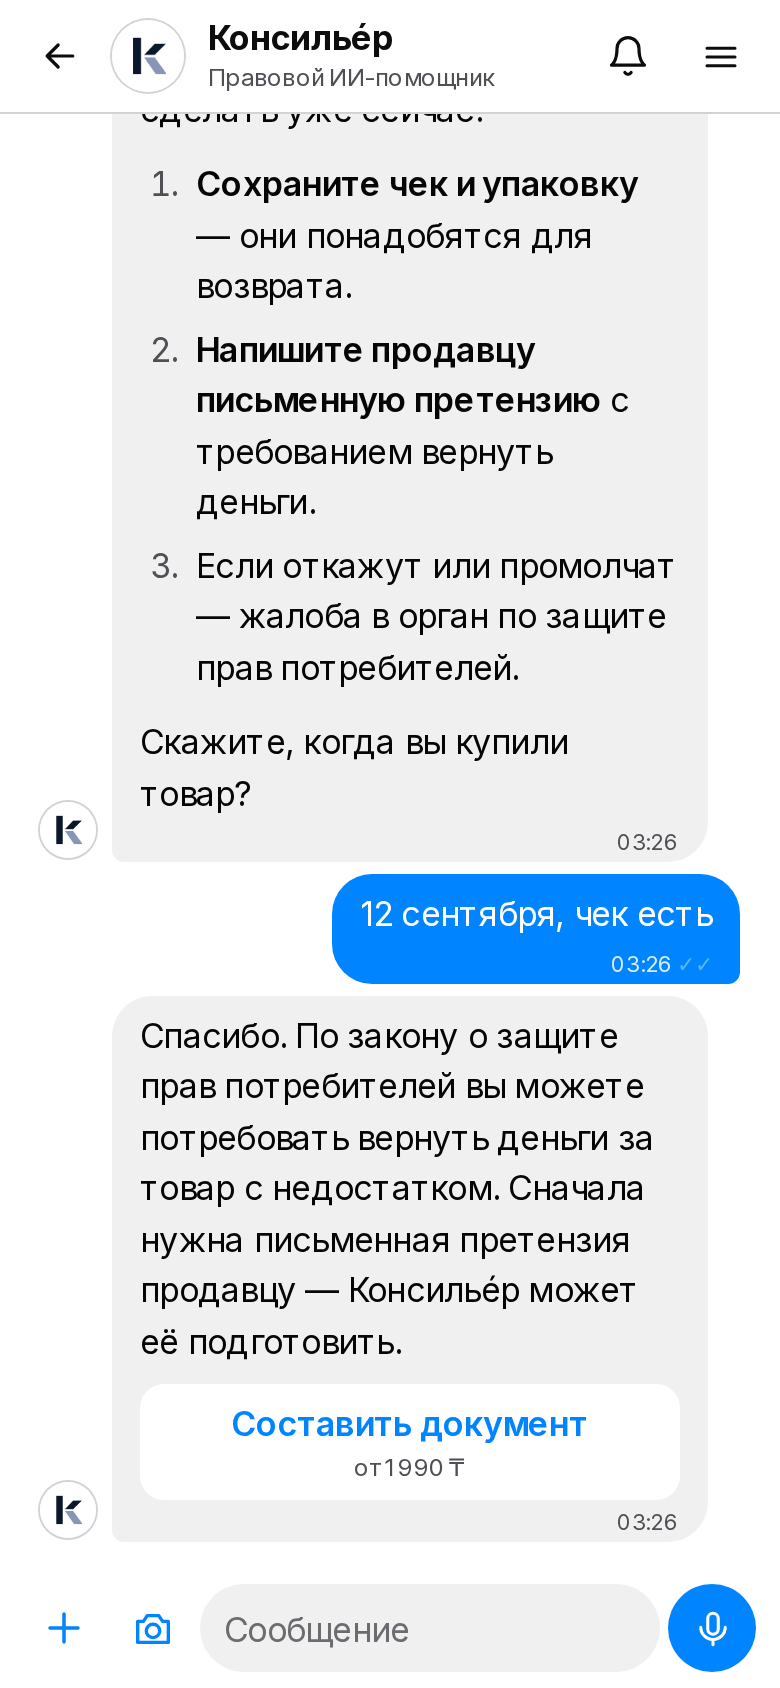
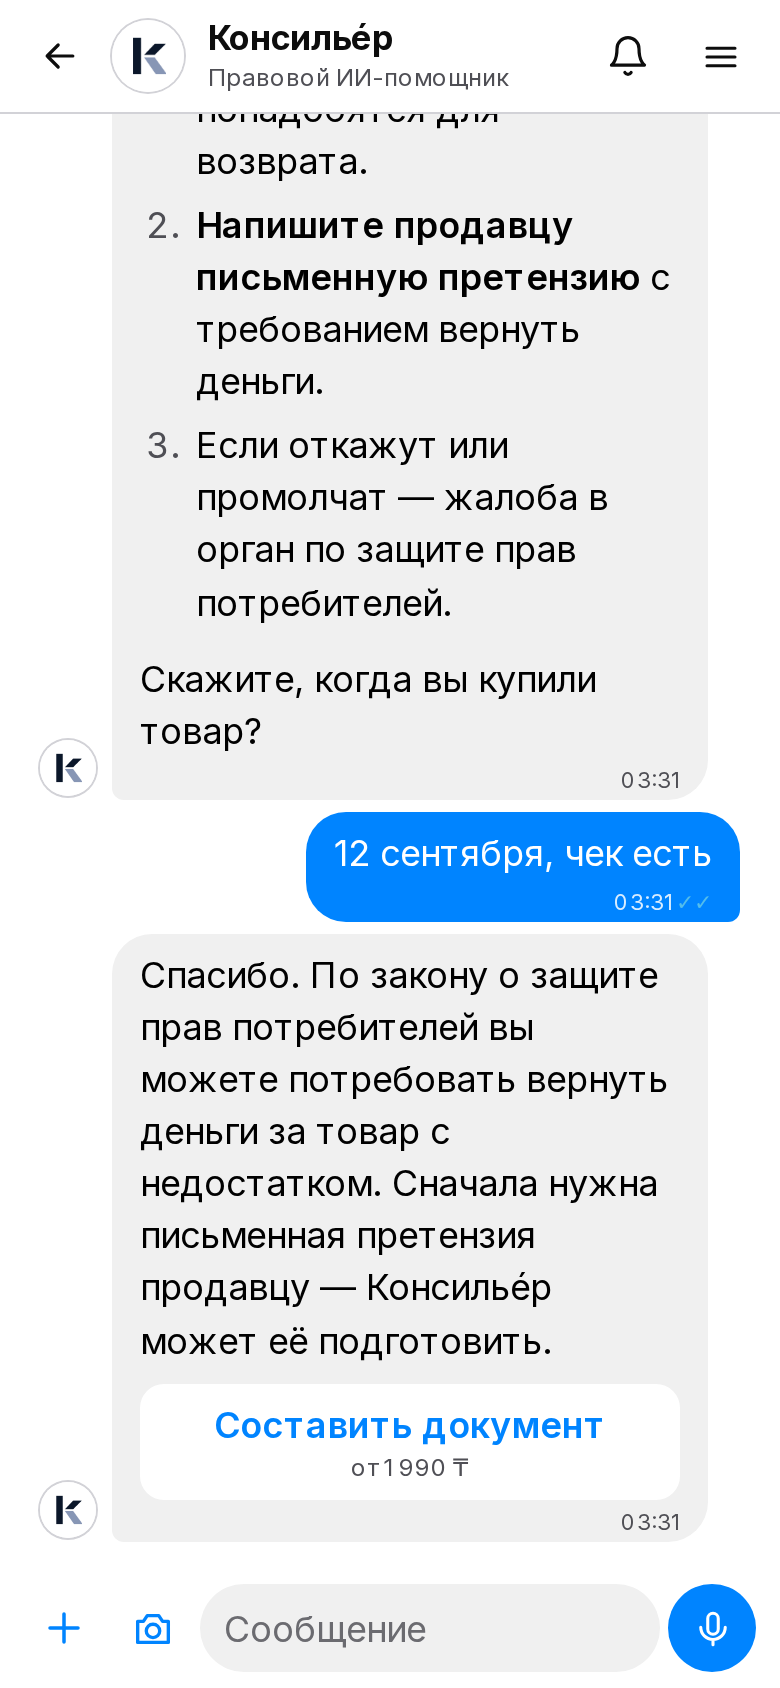
Clear text as in the Claude app: normal letter spacing, pure black, 18 px in the chat
Claude-Session: https://claude.ai/code/session_01GF15FExm3aQyzAnQikxaJ1

diff --git a/apps/web/app/globals.css b/apps/web/app/globals.css
@@ -77,7 +77,8 @@ body {
      The tracking is set in px so the 14–15 px captions that inherit it are not pinched further. */
   font-size: 17px;
   line-height: 1.47;
-  letter-spacing: -0.374px;
+  letter-spacing: 0; /* normal spacing: Cyrillic set tight looks cramped and pale */
+  -webkit-font-smoothing: auto;
   text-rendering: optimizeLegibility;
 }
 /* Arabic: Noto Sans Arabic first and no negative tracking (it breaks the joins of connected letters). */
@@ -243,7 +244,7 @@ footer {
 :root, [data-look="messenger"] {
   --chat-bg: #ffffff;
   --chat-in-bg: #f0f0f0;
-  --chat-in-fg: #050505;
+  --chat-in-fg: #000000;
   --chat-out-bg: #0084ff;
   --chat-out-fg: #ffffff;
   --chat-out-meta: rgb(255 255 255 / 0.85);
@@ -255,9 +256,9 @@ footer {
 [data-look="whatsapp"] {
   --chat-bg: #efeae2;
   --chat-in-bg: #ffffff;
-  --chat-in-fg: #111b21;
+  --chat-in-fg: #000000;
   --chat-out-bg: #d9fdd3;
-  --chat-out-fg: #111b21;
+  --chat-out-fg: #000000;
   --chat-out-meta: #667781;
   --chat-accent: #00a884;
   --chat-shadow: 0 1px 0.5px rgb(11 20 26 / 0.13);

diff --git a/apps/web/components/Chat.tsx b/apps/web/components/Chat.tsx
@@ -34,7 +34,7 @@ function Bubble({ mine, at, seen, children }: { mine: boolean; at?: string; seen
       {!mine && ( // Konsiliér's small avatar beside its replies, as in Messenger
         <img src="/icons/icon-192.png" alt="" width={28} height={28} className="mb-0.5 h-7 w-7 shrink-0 rounded-full ring-1 ring-line" />
       )}
-      <div className={`relative min-w-0 max-w-[85%] rounded-[20px] px-3.5 pt-2 pb-1.5 text-[17px] leading-[1.5] sm:max-w-[75%] ${
+      <div className={`relative min-w-0 max-w-[85%] rounded-[20px] px-3.5 pt-2 pb-1.5 text-[18px] leading-[1.45] tracking-normal sm:max-w-[75%] ${
         mine ? "rounded-ee-[6px] bg-[var(--chat-out-bg)] text-[var(--chat-out-fg)] [&_a]:text-inherit" : "rounded-es-[6px] bg-[var(--chat-in-bg)] text-[var(--chat-in-fg)]"} shadow-[var(--chat-shadow)]`}>
         <div className="space-y-2">{children}</div>
         {at && (

diff --git a/apps/web/components/Composer.tsx b/apps/web/components/Composer.tsx
@@ -154,7 +154,7 @@ export function Composer({ value, setValue, files, onFiles, onRemove, onSubmit, 
         placeholder={dictation.transcribing ? t("chat.transcribing") : placeholder}
         maxLength={4000}
         className={`block w-full flex-1 resize-none border-0 bg-transparent shadow-none outline-none placeholder:text-[#6b6b70] ${
-          large ? "min-h-24 px-3 pt-2 text-[17px] leading-relaxed" : "min-h-10 px-3 py-2 text-[17px]"}`}
+          large ? "min-h-24 px-3 pt-2 text-[18px] leading-relaxed text-black" : "min-h-10 px-3 py-2 text-[18px] text-black"}`}
         style={{ outline: "none" }} /* the whole box shows focus */ />
     </>
   );
